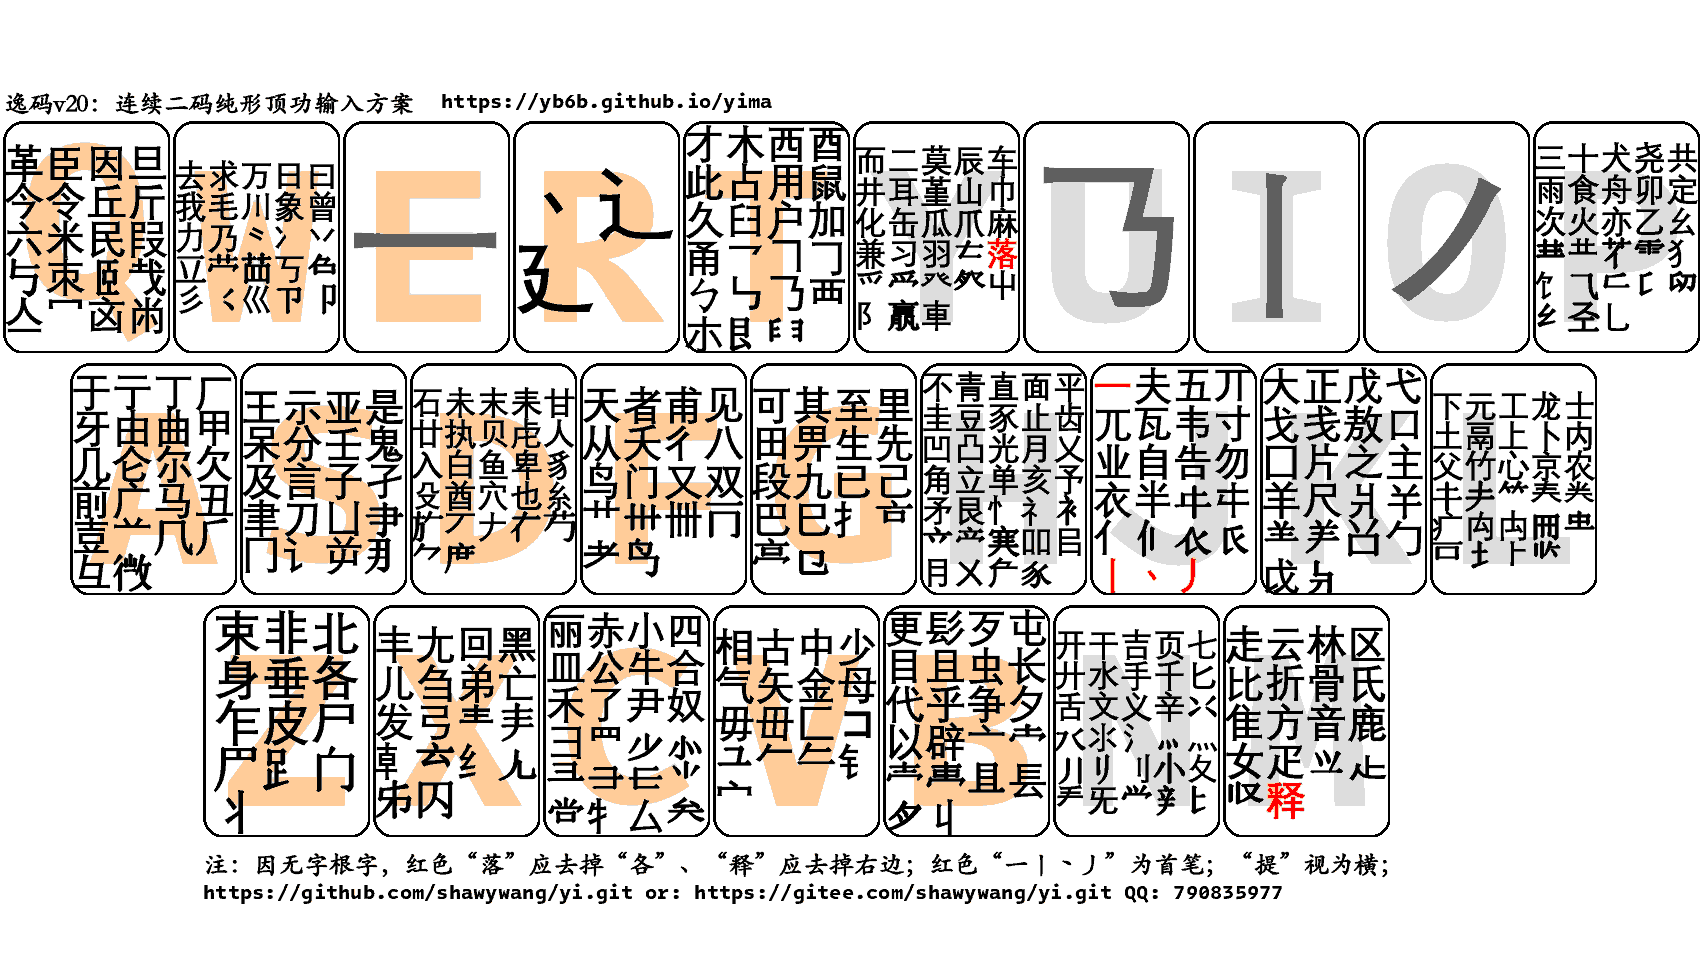
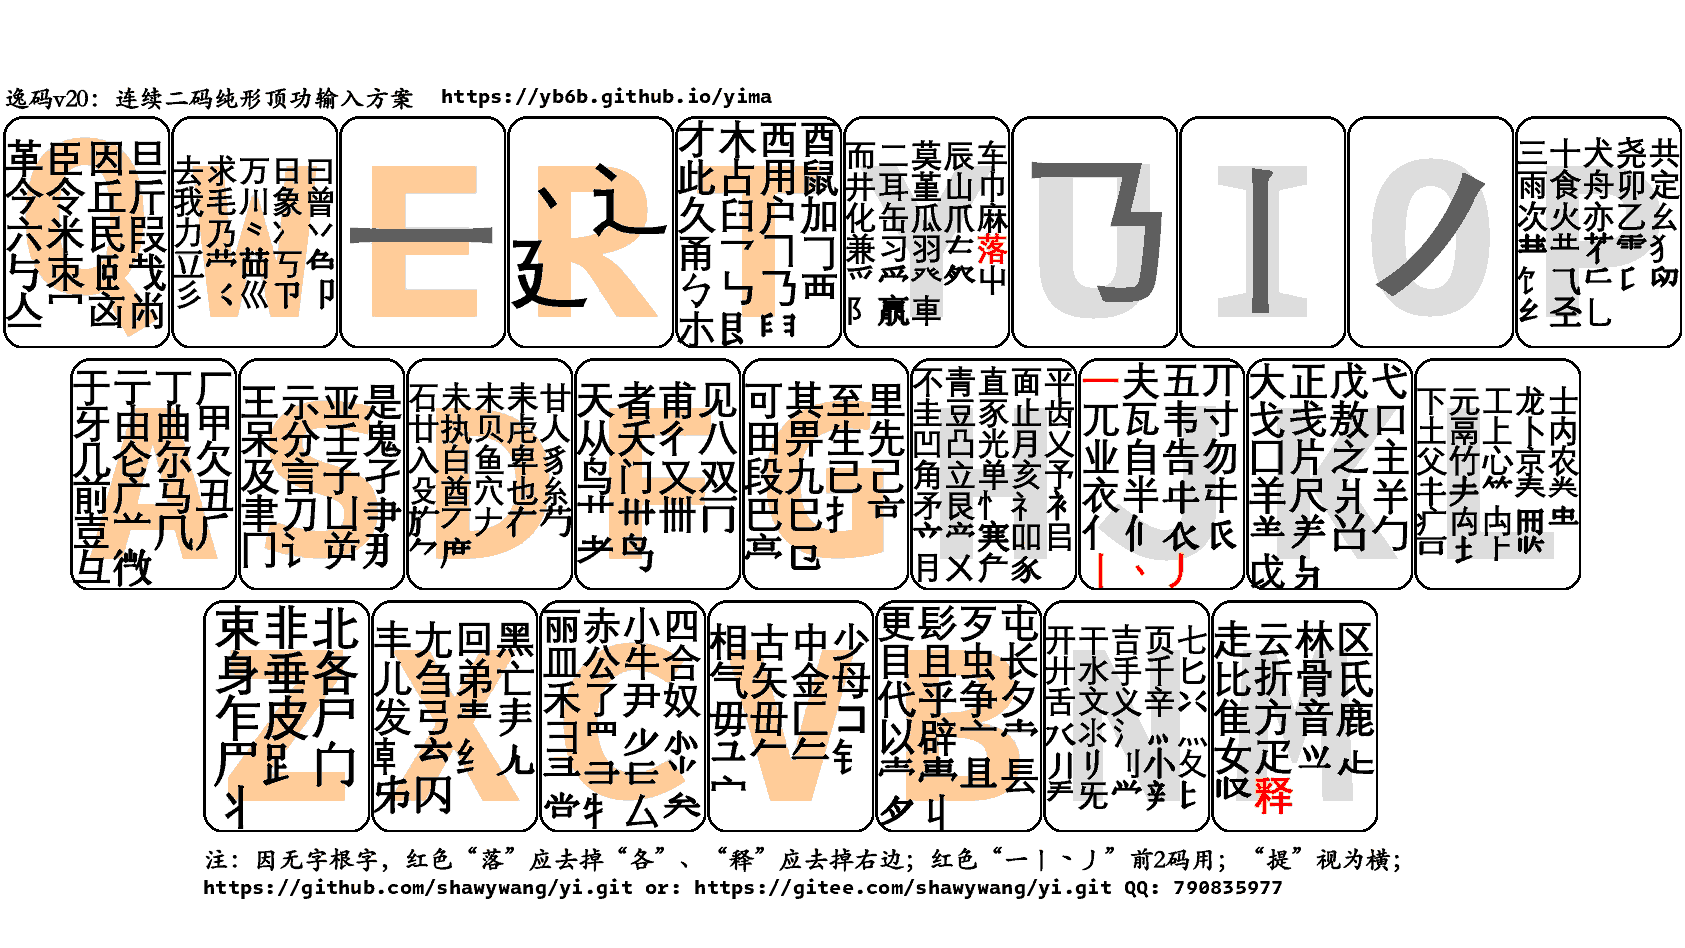
horizontal3

Changed region(s): [[0.0, 0.0918, 1.0, 0.9483], [0.8332, 0.2447, 0.8641, 0.3059]]

diff --git a/字根画26键.py b/字根画26键.py
@@ -12,10 +12,10 @@ class Handle:
     def draw26(self):
         key_width = 167
         key_height = 232
-        padding_h = 2  # 键之间的距离：水平方向
+        padding_h = 1  # 键之间的距离：水平方向
         padding_v = 10  # 键之间的距离：竖直方向
         lr: int = 3  # 画布左、右空白像素
-        ud: int = 118.5  # 画布上、下空白像素
+        ud: int = 116  # 画布上、下空白像素，116
         keyboard_layout = [
             list("qwertyuiop"),
             list("asdfghjkl"),
@@ -49,7 +49,7 @@ class Handle:
 
         draw.text(xy=(lr, ud - 35), text="逸码v20：连续二码纯形顶功输入方案", fill=(0, 0, 0), font=n_font1)
         draw.text(xy=(lr + 438, ud - 35), text="https://yb6b.github.io/yima", fill=(0, 0, 0), font=n_font2)
-        draw.text(xy=(n_x, n_y), text="注：因无字根字，红色“落”应去掉“各”、“释”应去掉右边；红色“一丨丶丿”为首笔；“提”视为横；", fill=(0, 0, 0), font=n_font1)
+        draw.text(xy=(n_x, n_y), text="注：因无字根字，红色“落”应去掉“各”、“释”应去掉右边；红色“一丨丶丿”前2码用；“提”视为横；", fill=(0, 0, 0), font=n_font1)
         draw.text(xy=(n_x, n_y + 30), text="https://github.com/shawywang/yi.git or: https://gitee.com/shawywang/yi.git QQ: 790835977", fill=(0, 0, 0), font=n_font2)
 
         # 保存
